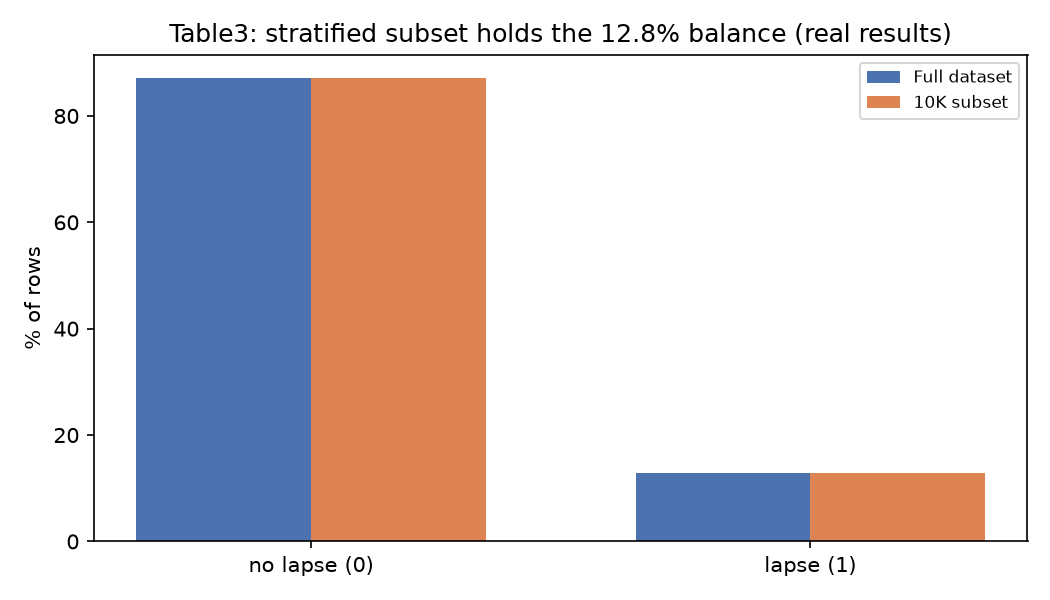
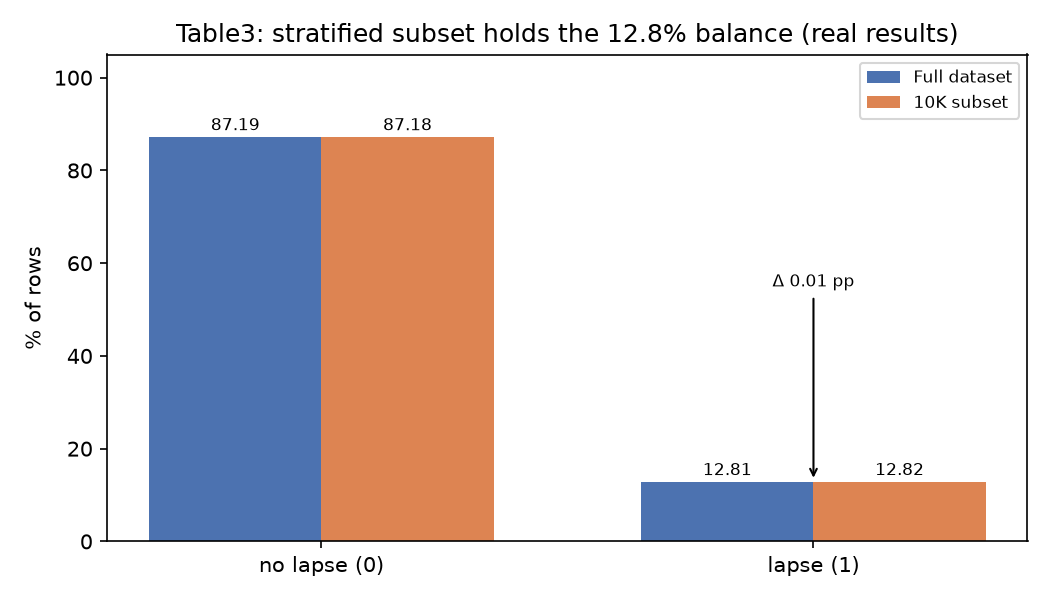
docs: fix learning-path charts so the evidence is visible
Vision review found charts 2 and 3 hid their core evidence in sub-4px
detail and chart 2 read as a rendering bug (floor line grazing bar
tops). Fixes in make_learning_path_charts.py:

- discrimination: split into stacked ROC/PR panels (shared 0-0.7 axis
  flattened the band to 7% of height) + value labels + band bracket
- brier: zoom axis, value labels, "gap to floor <1%" annotation,
  honesty note in doc caption
- class balance: value labels (87.19/87.18, 12.81/12.82) + delta callout
- reliability schematic: overconfident curve recolored so crimson stays
  reserved for reference lines across the doc set

diff --git a/scripts/infra/make_learning_path_charts.py b/scripts/infra/make_learning_path_charts.py
@@ -3,7 +3,7 @@
 Real-data charts read outputs/current/tables/*.csv (source of truth);
 the reliability chart is a labeled schematic for teaching.
 
-Run from repo root: .venv312/bin/python scripts/infra/make_learning_path_charts.py
+Run from repo root: .venv-ta/bin/python scripts/infra/make_learning_path_charts.py
 """
 import matplotlib
 matplotlib.use("Agg")
@@ -16,52 +16,85 @@ TABLES = Path("outputs/current/tables")
 OUT = Path("docs/figures")
 OUT.mkdir(parents=True, exist_ok=True)
 
-# 1. Discrimination: Table1 ROC/PR AUC per model
+# 1. Discrimination: Table1 ROC AUC (top panel) / PR AUC (bottom panel)
+# Two panels, not one shared axis: ROC (0.55-0.60) and PR (0.15-0.19) need
+# opposite zooms; a shared 0-0.7 axis flattens the story into noise.
 t1 = pd.read_csv(TABLES / "Table1_Model_Performance.csv")
-x = np.arange(len(t1)); w = 0.38
-fig, ax = plt.subplots(figsize=(8, 4.5))
-ax.bar(x - w/2, t1["roc_auc"], w, label="ROC AUC", color="#4C72B0")
-ax.bar(x + w/2, t1["pr_auc"], w, label="PR AUC", color="#DD8452")
-ax.axhline(0.5, color="gray", ls="--", lw=1, label="ROC chance (0.5)")
-ax.axhline(0.128, color="gray", ls=":", lw=1, label="PR chance = prevalence (0.128)")
-ax.set_xticks(x); ax.set_xticklabels(t1["model"], rotation=15)
-ax.set_ylim(0, 0.7); ax.set_ylabel("score")
-ax.set_title("Table1: discrimination on eudirectlapse (real results)")
-ax.legend(fontsize=8)
-fig.tight_layout(); fig.savefig(OUT / "lp_discrimination.png", dpi=150); plt.close(fig)
+x = np.arange(len(t1))
+fig, (ax1, ax2) = plt.subplots(2, 1, figsize=(8, 6.5), sharex=True,
+                               gridspec_kw={"hspace": 0.08},
+                               constrained_layout=True)
 
-# 2. Calibration: Table4 Brier vs constant-predictor floor
+ax1.bar(x, t1["roc_auc"], 0.55, color="#4C72B0", label="ROC AUC")
+ax1.axhline(0.5, color="gray", ls="--", lw=1.5, label="chance (0.5)")
+ax1.set_ylabel("ROC AUC"); ax1.set_ylim(0.44, 0.66)
+ax1.set_title("Table1: discrimination on eudirectlapse (real results)")
+ax1.legend(fontsize=8, loc="lower right")
+for xi, v in zip(x, t1["roc_auc"]):
+    ax1.text(xi, v + 0.004, f"{v:.3f}", ha="center", fontsize=8)
+ax1.annotate("", xy=(-0.4, 0.628), xytext=(len(t1) - 0.6, 0.628),
+             arrowprops=dict(arrowstyle="-", lw=1.2, color="#333333"))
+ax1.text(len(t1) / 2 - 0.5, 0.645, "tight band 0.55\u20130.60 \u2014 models \u2248 equal",
+         ha="center", fontsize=8, color="#333333")
+
+ax2.bar(x, t1["pr_auc"], 0.55, color="#DD8452", label="PR AUC")
+ax2.axhline(0.128, color="gray", ls=":", lw=1.5,
+            label="chance = prevalence (0.128)")
+ax2.set_ylabel("PR AUC"); ax2.set_ylim(0.10, 0.22)
+ax2.legend(fontsize=8, loc="lower right")
+for xi, v in zip(x, t1["pr_auc"]):
+    ax2.text(xi, v + 0.003, f"{v:.3f}", ha="center", fontsize=8)
+ax2.set_xticks(x); ax2.set_xticklabels(t1["model"], rotation=15)
+fig.savefig(OUT / "lp_discrimination.png", dpi=150, bbox_inches="tight"); plt.close(fig)
+
+# 2. Calibration: Table4 Brier vs constant-predictor floor.
+# Axis must be zoomed or the floor "grazes" the bars and the chart looks
+# broken; value labels + gap annotation carry the <1% story.
 t4 = pd.read_csv(TABLES / "Table4_Brier_Scores.csv")
 floor = 0.1281 * (1 - 0.1281)  # pi*(1-pi): Brier of predicting the base rate for everyone
+gap = floor - t4["Brier Score"].min()
 fig, ax = plt.subplots(figsize=(7, 4))
 ax.bar(t4["Method"], t4["Brier Score"], color="#55A868", width=0.5)
 ax.axhline(floor, color="crimson", ls="--", lw=1.5,
            label=f"constant-predictor floor = {floor:.4f}")
 ax.set_ylabel("Brier (lower is better)")
 ax.set_title("Table4: Brier on eudirectlapse (real results)")
-ax.set_ylim(0, 0.14); ax.legend(fontsize=8)
+ax.set_ylim(0.105, 0.117); ax.legend(fontsize=8, loc="upper left")
+for xi, v in zip(range(len(t4)), t4["Brier Score"]):
+    ax.text(xi, v + 0.00025, f"{v:.4f}", ha="center", fontsize=8)
+ax.text(0.99, 0.06, f"gap to floor \u2248 {gap:.4f} (< 1%)",
+        transform=ax.transAxes, ha="right", fontsize=8, color="crimson")
 fig.tight_layout(); fig.savefig(OUT / "lp_brier.png", dpi=150); plt.close(fig)
 
-# 3. Class balance: Table3 full vs stratified 10K subset
+# 3. Class balance: Table3 full vs stratified 10K subset, with the values
+# shown so the "they match" lesson is verifiable, not decorative.
 t3 = pd.read_csv(TABLES / "Table3_Class_Balance.csv")
 x = np.arange(2); w = 0.35
 fig, ax = plt.subplots(figsize=(7, 4))
 ax.bar(x - w/2, t3["Full Dataset %"], w, label="Full dataset", color="#4C72B0")
 ax.bar(x + w/2, t3["Subset (10K) %"], w, label="10K subset", color="#DD8452")
 ax.set_xticks(x); ax.set_xticklabels(["no lapse (0)", "lapse (1)"])
-ax.set_ylabel("% of rows")
+ax.set_ylabel("% of rows"); ax.set_ylim(0, 105)
 ax.set_title("Table3: stratified subset holds the 12.8% balance (real results)")
 ax.legend(fontsize=8)
+for xi, v in zip(x, t3["Full Dataset %"]):
+    ax.text(xi - w/2, v + 1.5, f"{v:.2f}", ha="center", fontsize=8)
+for xi, v in zip(x, t3["Subset (10K) %"]):
+    ax.text(xi + w/2, v + 1.5, f"{v:.2f}", ha="center", fontsize=8)
+ax.annotate("\u0394 0.01 pp", xy=(1, 12.82), xytext=(1, 55), ha="center",
+            fontsize=8, arrowprops=dict(arrowstyle="->", lw=1))
 fig.tight_layout(); fig.savefig(OUT / "lp_class_balance.png", dpi=150); plt.close(fig)
 
-# 4. Schematic: how to read a reliability diagram (teaching, not evidence)
+# 4. Schematic: how to read a reliability diagram (teaching, not evidence).
+# Crimson is reserved for reference lines in this doc set; the overconfident
+# curve gets dark red instead.
 p = np.linspace(0, 1, 200)
 fig, ax = plt.subplots(figsize=(6, 5))
 ax.plot([0, 1], [0, 1], color="green", lw=2, label="perfectly calibrated")
-ax.plot(p, p**1.6, color="crimson", lw=2, label="overconfident (schematic)")
+ax.plot(p, p**1.6, color="#C44E52", lw=2, label="overconfident (schematic)")
 ax.plot(p, p**0.6, color="#4C72B0", lw=2, label="underconfident (schematic)")
 ax.set_xlabel("predicted probability"); ax.set_ylabel("observed frequency")
-ax.set_title("Reliability diagram — how to read it")
+ax.set_title("Reliability diagram \u2014 how to read it")
 ax.legend(fontsize=8); ax.set_aspect("equal")
 fig.tight_layout(); fig.savefig(OUT / "lp_reliability_schematic.png", dpi=150); plt.close(fig)
 

diff --git a/docs/LEARNING-PATH-JUNIOR.md b/docs/LEARNING-PATH-JUNIOR.md
@@ -121,7 +121,7 @@ The three numbers you'll see everywhere:
 | Platt scaling | 0.1103 | +0.45% |
 | Isotonic regression | 0.1098 | +0.87% |
 
-![Table4 Brier vs constant-predictor floor](figures/lp_brier.png)
+![Table4 Brier vs constant-predictor floor (axis zoomed — the gaps are <1%)](figures/lp_brier.png)
 
 And the same idea in the picture form you'll see in the notebooks — a **reliability diagram** (schematic; the notebook-era figures are the real ones):
 
